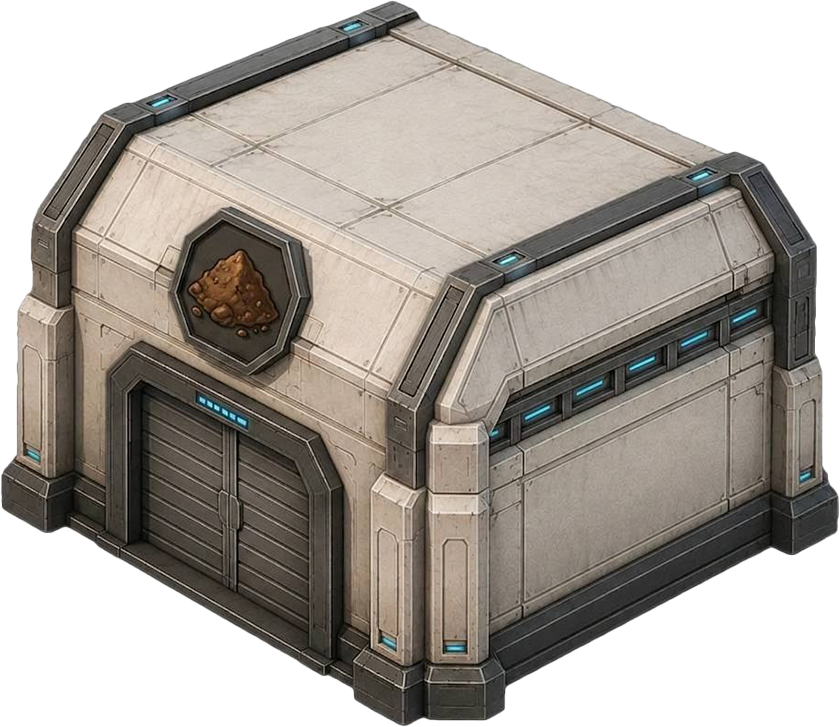
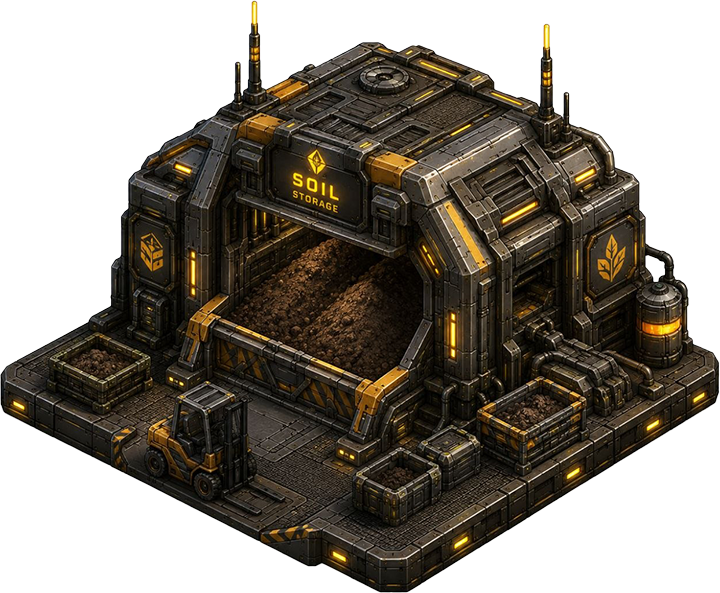
.

diff --git a/src/main/java/model/village/Village.java b/src/main/java/model/village/Village.java
@@ -43,7 +43,7 @@ public class Village implements Serializable {
 
     private final Map<UUID, Plant> plants = new HashMap<>();
     private final ReentrantReadWriteLock lock = new ReentrantReadWriteLock();
-    private GameMap gameMap = new GameMap(150, 150);
+    private GameMap gameMap  = new GameMap(150, 150);
 
 
     private final Map<UUID, Battle> activeBattles;
@@ -80,6 +80,50 @@ public class Village implements Serializable {
 
         RandomEventTask randomEventTask = new RandomEventTask(Instant.now(), Duration.ofMinutes(1), TimedOperationType.RANDOM_EVENT_TASK);
         this.timedOperation.put(randomEventTask.getId(), randomEventTask);
+
+        MajorBuilding majorBuilding = new MajorBuilding(BuildingType.MAJOR_BUILDING, new Coordinate(68, 71));
+        this.getBuildings().put(majorBuilding.getId(), majorBuilding);
+
+        ResearchCenter researchCenter = new ResearchCenter(BuildingType.RESEARCH_CENTER, new Coordinate(27, 37));
+        this.getBuildings().put(researchCenter.getId(), researchCenter);
+
+        Laboratory laboratory = new Laboratory(BuildingType.LABORATORY, new Coordinate(17, 28));
+        this.getBuildings().put(laboratory.getId(), laboratory);
+
+
+        StorageBuilding stoneStorage = new StorageBuilding(BuildingType.STONE_STORAGE, new Coordinate(36, 104), 2000);
+        StorageBuilding woodStorage = new StorageBuilding(BuildingType.WOOD_STORAGE, new Coordinate(27, 103), 2000);
+        StorageBuilding ironStorage = new StorageBuilding(BuildingType.IRON_STORAGE, new Coordinate(27, 112), 2000);
+        StorageBuilding gunPowderStorage = new StorageBuilding(BuildingType.GUNPOWDER_STORAGE, new Coordinate(36, 113), 2000);
+        StorageBuilding waterStorage = new StorageBuilding(BuildingType.WATER_STORAGE, new Coordinate(27, 93), 2000);
+        StorageBuilding soilStorage = new StorageBuilding(BuildingType.SOIL_STORAGE, new Coordinate(37, 95), 2000);
+
+        this.getBuildings().put(waterStorage.getId(), waterStorage);
+        this.getBuildings().put(soilStorage.getId(), soilStorage);
+        this.getBuildings().put(stoneStorage.getId(), stoneStorage);
+        this.getBuildings().put(woodStorage.getId(), woodStorage);
+        this.getBuildings().put(ironStorage.getId(), ironStorage);
+        this.getBuildings().put(gunPowderStorage.getId(), gunPowderStorage);
+
+
+        stoneStorage.setBuildingStatus(BuildingStatus.ACTIVE);
+        woodStorage.setBuildingStatus(BuildingStatus.ACTIVE);
+        gunPowderStorage.setBuildingStatus(BuildingStatus.ACTIVE);
+        ironStorage.setBuildingStatus(BuildingStatus.ACTIVE);
+        majorBuilding.setBuildingStatus(BuildingStatus.ACTIVE);
+        researchCenter.setBuildingStatus(BuildingStatus.ACTIVE);
+        laboratory.setBuildingStatus(BuildingStatus.ACTIVE);
+
+        this.gameMap.placeBuilding(waterStorage, 27, 93);
+        this.gameMap.placeBuilding(soilStorage, 37, 95);
+        this.gameMap.placeBuilding(majorBuilding, 68, 71);
+        this.gameMap.placeBuilding(researchCenter, 27, 37);
+        this.gameMap.placeBuilding(laboratory, 27, 28);
+        this.gameMap.placeBuilding(stoneStorage, 36, 104);
+        this.gameMap.placeBuilding(woodStorage, 27, 103);
+        this.gameMap.placeBuilding(gunPowderStorage, 36, 113);
+        this.gameMap.placeBuilding(ironStorage, 27, 113);
+
     }
 
     public void runTimeServices(){  // we want the logic after loading the game

diff --git a/src/main/java/service/map/VillageController.java b/src/main/java/service/map/VillageController.java
@@ -1694,6 +1694,28 @@ public class VillageController {
         }
     }
 
+    @FXML
+    private void onWaterStorageBuildButtonClicked(){
+        if (controller != null) {
+            if(!checkResourcesAndAlert(BuildingType.WATER_STORAGE)) return;
+            if(showConstructionConfirmation("WATER_STORAGE")) {
+                this.hideAddBuildingPanel();
+                controller.enterBuildMode(BuildingType.WATER_STORAGE);
+            }
+        }
+    }
+
+    @FXML
+    private void onSoilStorageBuildButtonClicked(){
+        if (controller != null) {
+            if(!checkResourcesAndAlert(BuildingType.SOIL_STORAGE)) return;
+            if(showConstructionConfirmation("SOIL_STORAGE")) {
+                this.hideAddBuildingPanel();
+                controller.enterBuildMode(BuildingType.SOIL_STORAGE);
+            }
+        }
+    }
+
 
     @FXML
     private void onCustomhouseBuildClicked(ActionEvent actionEvent) {
@@ -2325,12 +2347,12 @@ public class VillageController {
 
         ResourcesManagement resourcesManagement = this.player.getVillage().getResourcesManagement();
 
-        int maxWoodCapacity = 10000;//resourcesManagement.getMaxCapacity(ResourcesType.WOOD);
-        int maxIronCapacity = 10000;//resourcesManagement.getMaxCapacity(ResourcesType.IRON);
-        int maxStoneCapacity = 10000;//resourcesManagement.getMaxCapacity(ResourcesType.STONE);
-        int maxCleanWaterCapacity = 10000;//resourcesManagement.getMaxCapacity(ResourcesType.CLEAN_WATER);
-        int maxCleanSoilCapacity = 10000;//resourcesManagement.getMaxCapacity(ResourcesType.CLEAN_SOIL);
-        int maxGunPowderCapacity = 10000;//resourcesManagement.getMaxCapacity(ResourcesType.GUN_POWDER);
+        int maxWoodCapacity = resourcesManagement.getMaxCapacity(ResourcesType.WOOD);
+        int maxIronCapacity = resourcesManagement.getMaxCapacity(ResourcesType.IRON);
+        int maxStoneCapacity = resourcesManagement.getMaxCapacity(ResourcesType.STONE);
+        int maxCleanWaterCapacity = resourcesManagement.getMaxCapacity(ResourcesType.CLEAN_WATER);
+        int maxCleanSoilCapacity = resourcesManagement.getMaxCapacity(ResourcesType.CLEAN_SOIL);
+        int maxGunPowderCapacity = resourcesManagement.getMaxCapacity(ResourcesType.GUN_POWDER);
 
         int currentWood = resources.getAmount(ResourcesType.WOOD);
         int currentIron = resources.getAmount(ResourcesType.IRON);

diff --git a/src/main/java/service/buildings/BuildingsManagement.java b/src/main/java/service/buildings/BuildingsManagement.java
@@ -25,7 +25,7 @@ public class BuildingsManagement{
 
     }
 
-    /*private int getMaxAllowedCount(BuildingType type) {
+    private int getMaxAllowedCount(BuildingType type) {
         return switch (type){
             case WOOD_MINE, STONE_MINE, IRON_MINE -> 5;
             case GUNPOWDER_MINE, DIRTY_WATER_MINE, DIRTY_SOIL_MINE,
@@ -37,7 +37,7 @@ public class BuildingsManagement{
             case MAJOR_BUILDING, RESEARCH_CENTER, CUSTOMHOUSE , LABORATORY, BARRACKS, ARMY_PRODUCER-> 1;
             default -> Integer.MAX_VALUE;
         };
-    }*/
+    }
 
     private int getCurrentBuildingCount(BuildingType type) {
         int count = 0;
@@ -59,11 +59,11 @@ public class BuildingsManagement{
         village.getLock().writeLock().lock();
         try {
             int currentCount = getCurrentBuildingCount(buildingType);
-            /*int maxAllowed = getMaxAllowedCount(buildingType);
+            int maxAllowed = getMaxAllowedCount(buildingType);
 
             if(currentCount >= maxAllowed){
                 throw new BuildingLimitExceededException(buildingType, maxAllowed);
-            }*/
+            }
 
             Cost cost = Cost.buildCost(buildingType);
 

diff --git a/src/main/java/service/map/GameCanvasView.java b/src/main/java/service/map/GameCanvasView.java
@@ -184,6 +184,14 @@ public class GameCanvasView extends Canvas {
                     new Image(Objects.requireNonNull(getClass().getResourceAsStream("/images/building/iron-storage-2.png"))),
                     1,1,1));
 
+            buildingGraphics.put(BuildingType.SOIL_STORAGE, new BuildingGraphicProperties(
+                    new Image(Objects.requireNonNull(getClass().getResourceAsStream("/images/building/soil-storage.png"))),
+                    1,1,1));
+
+            buildingGraphics.put(BuildingType.WATER_STORAGE, new BuildingGraphicProperties(
+                    new Image(Objects.requireNonNull(getClass().getResourceAsStream("/images/building/water-storage.png"))),
+                    1,1,1));
+
         } catch(NullPointerException e) {
             System.err.println("Error loading building graphics: " + e.getMessage());
         }

diff --git a/src/main/java/model/resources/Resources.java b/src/main/java/model/resources/Resources.java
@@ -29,7 +29,7 @@ public class Resources implements Serializable {
 
 
     public void addResource(ResourcesType type, int amount, int capacity) {
-        setAmount(type,  amount + getAmount(type)/*Math.min(getAmount(type) + amount, capacity)*/);
+        setAmount(type,  /*amount + getAmount(type)*/Math.min(getAmount(type) + amount, capacity));
     }
 
     public boolean withdraw(ResourcesType type, int amount) {

diff --git a/src/main/java/service/map/GameMapController.java b/src/main/java/service/map/GameMapController.java
@@ -181,7 +181,6 @@ public class GameMapController {
             }
 
 
-
             if (villageController != null) {
                 villageController.showBuildingInfo(selectedBuilding);
             }